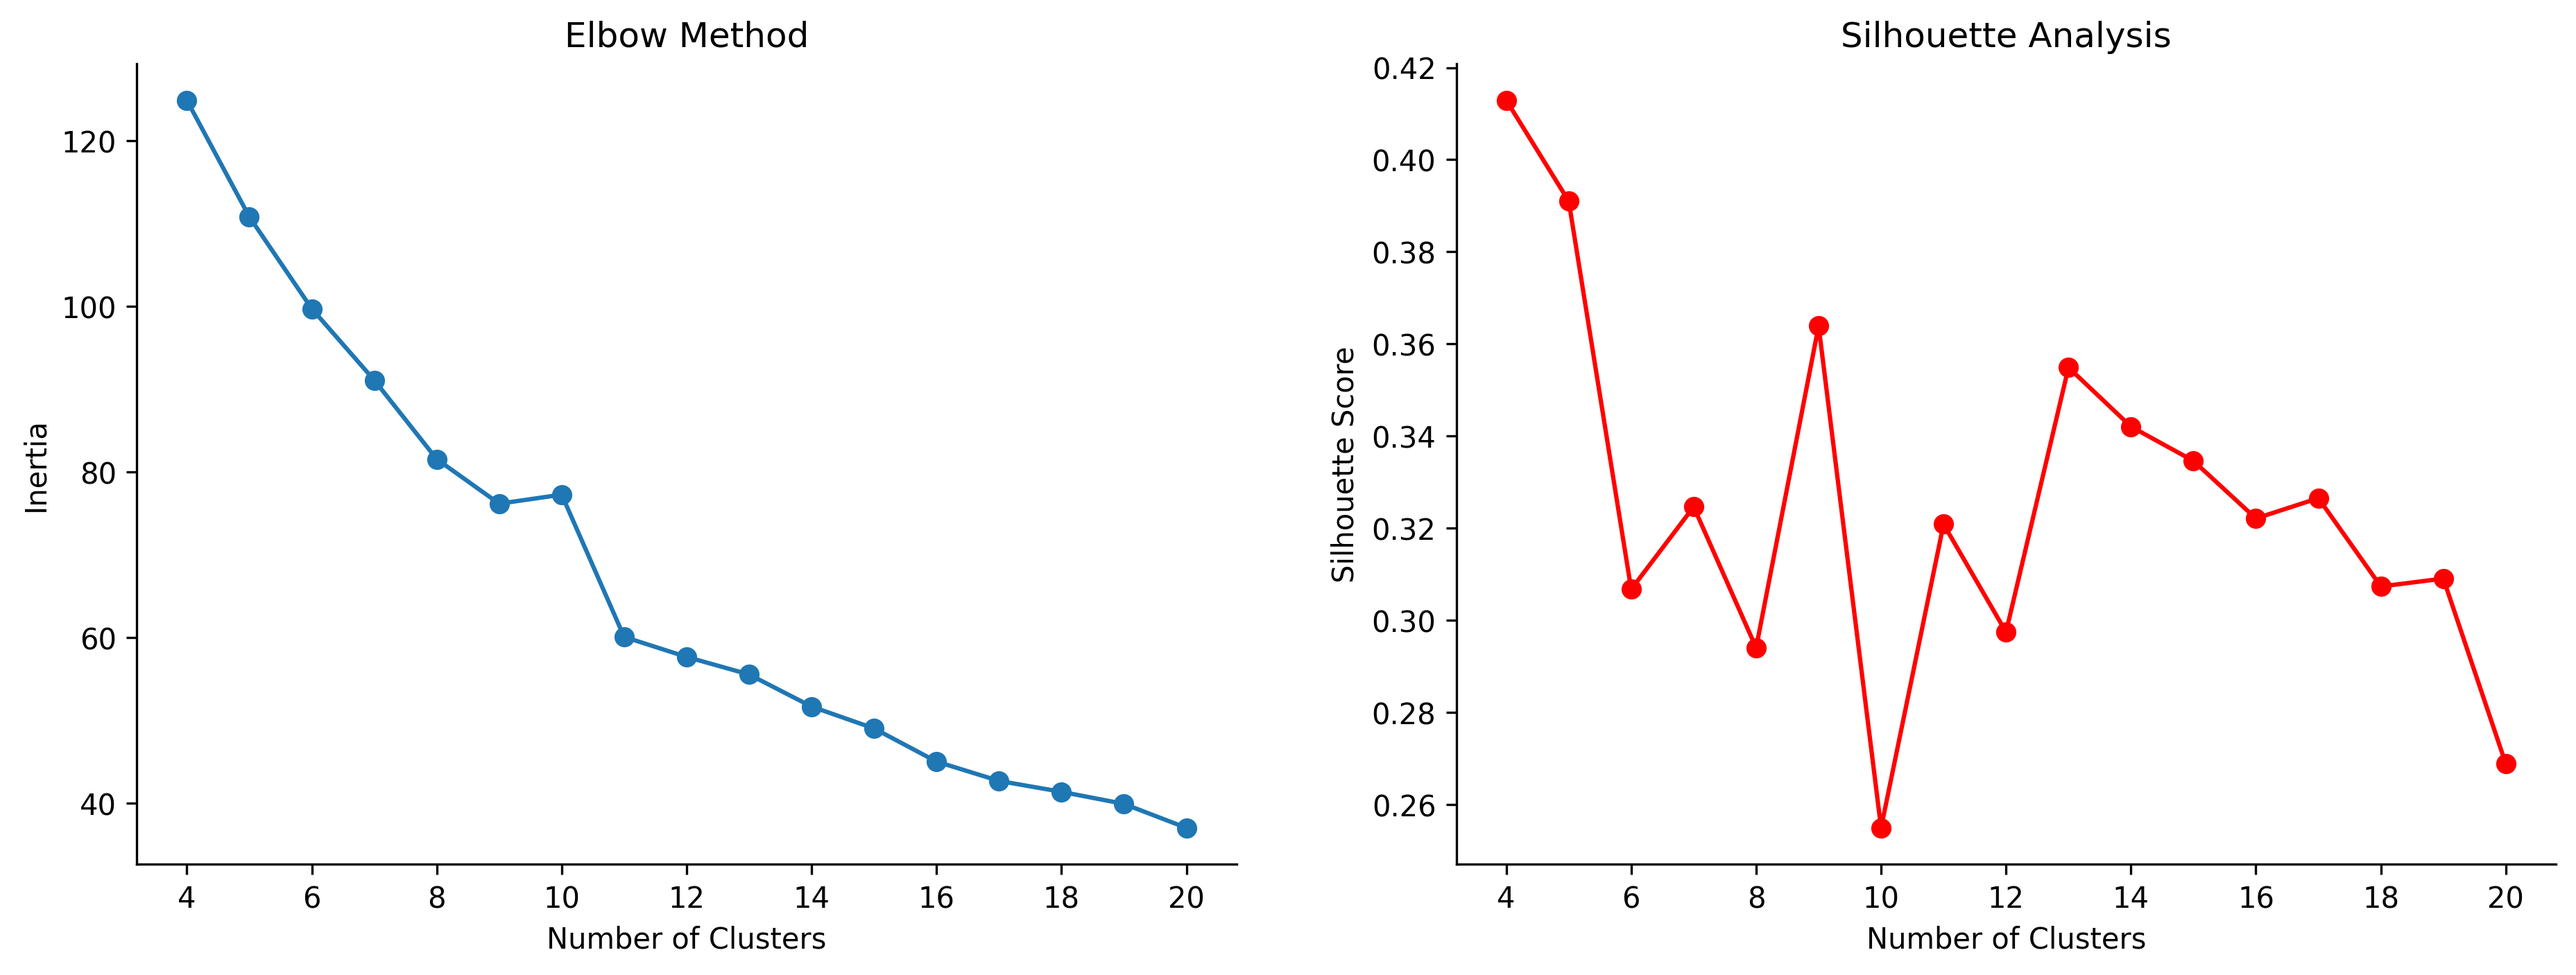
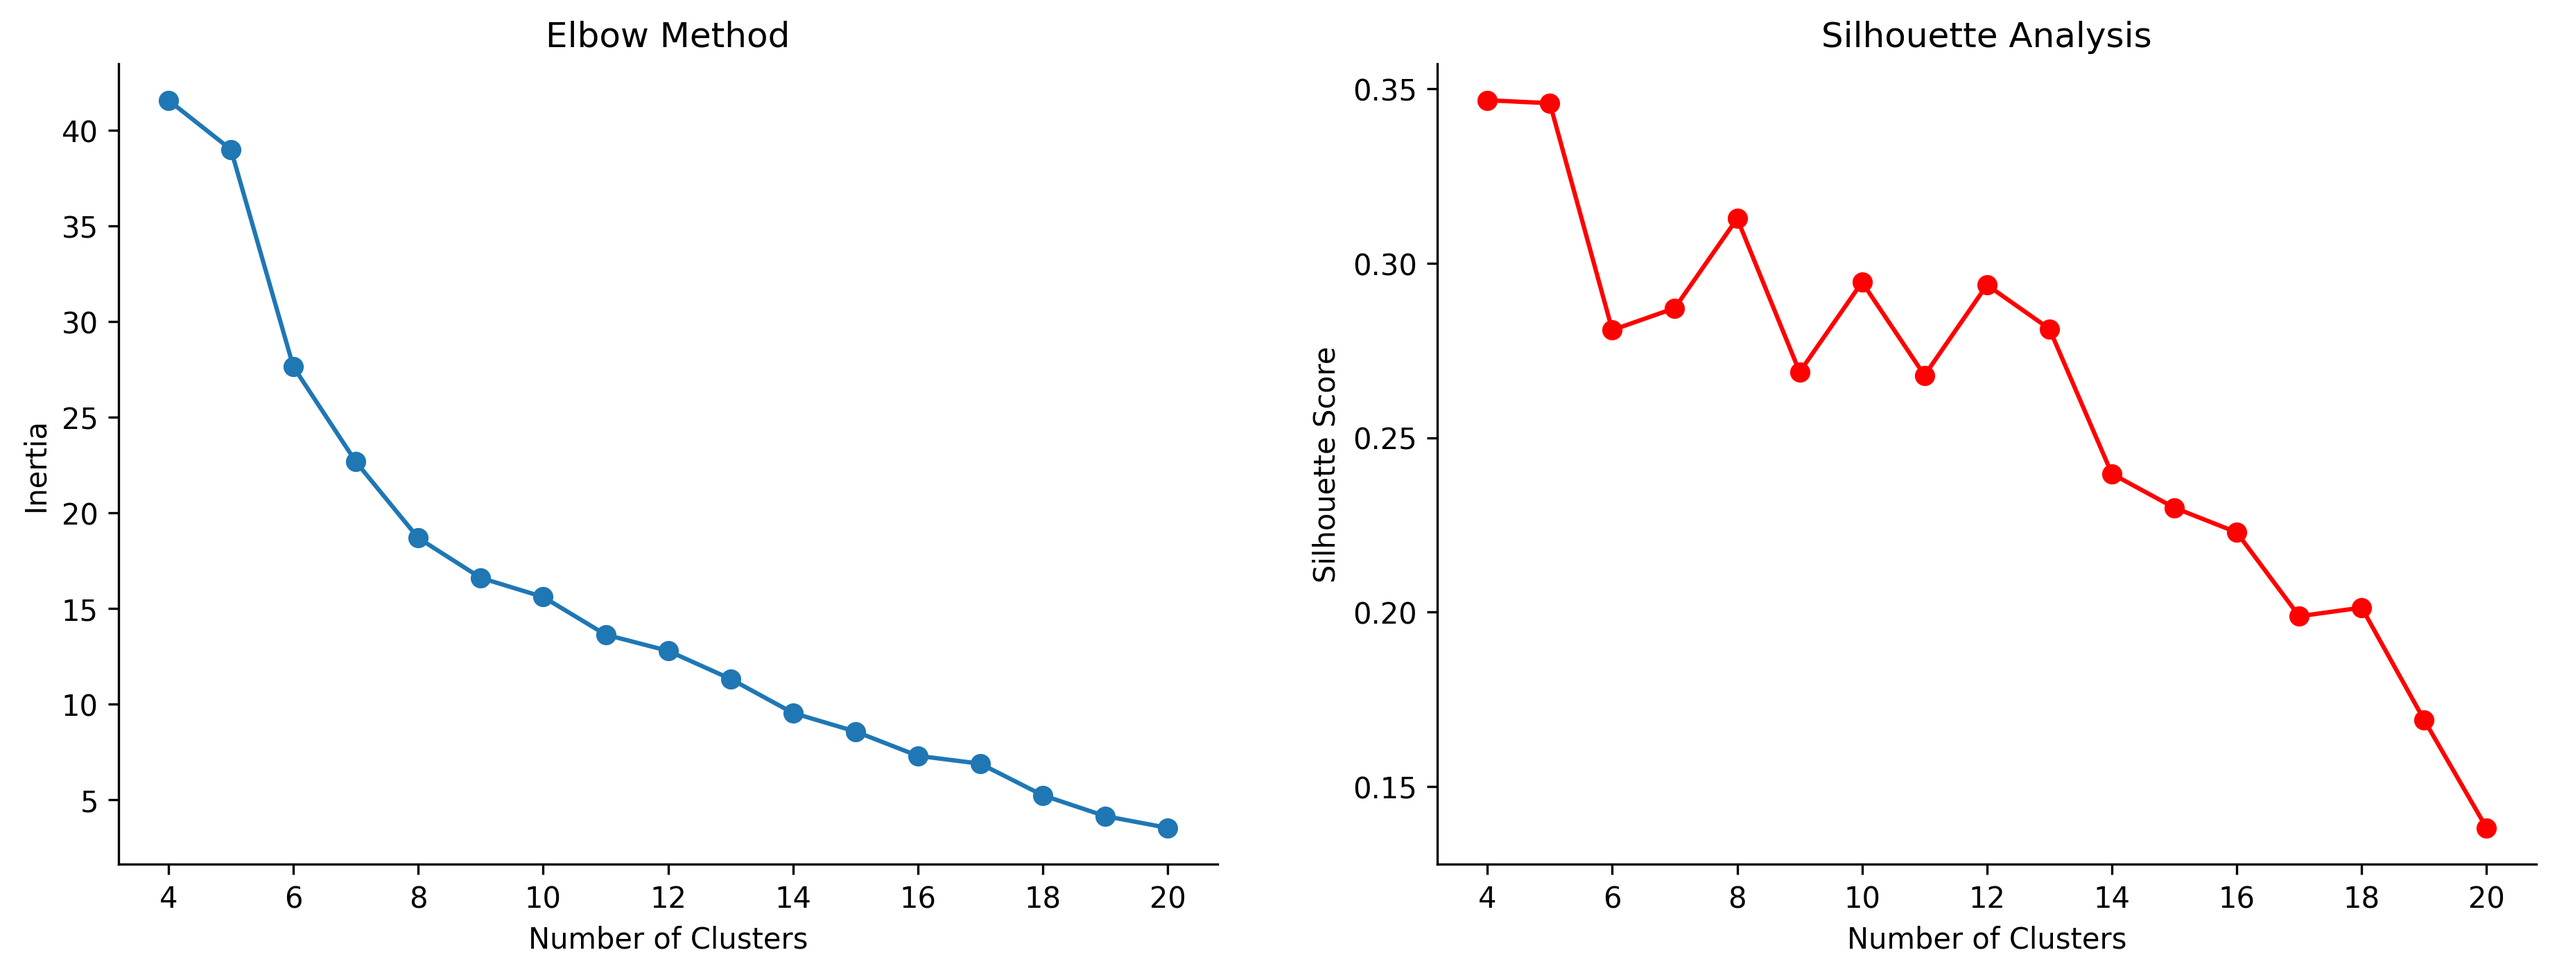
Refactor load_country_data to utilize HydroDataModule for data preprocessing and return cleaned daily time series DataFrame

diff --git a/clustering/cluster_all.py b/clustering/cluster_all.py
@@ -15,6 +15,8 @@ from clustering.preprocess_time_series import prepare_timeseries_data
 from clustering.time_series_clusterer import TimeSeriesClusterer
 from src.data_models.caravanify import Caravanify, CaravanifyConfig
 
+from src.data_models.datamodule import HydroDataModule
+
 
 @dataclass
 class ClusteringConfig:
@@ -42,19 +44,14 @@ class ClusteringConfig:
     optimization_method: str = "elbow"  # 'elbow' or 'silhouette'
 
 
-def load_country_data(country: str, config: ClusteringConfig) -> tuple:
+def load_country_data(country: str, config: ClusteringConfig) -> pd.DataFrame:
     """
-    Load time series and static data for a specific country.
-
-    Args:
-        country: Country code (e.g., 'CH', 'CL', 'USA')
-        config: Clustering configuration
-
-    Returns:
-        Tuple of (time_series_df, static_attributes_df)
+    Load and preprocess data for a country using HydroDataModule.
+    Returns cleaned daily time series DataFrame.
     """
     print(f"Loading data for {country}...")
 
+    # Configure Caravanify
     caravan_config = CaravanifyConfig(
         attributes_dir=f"{config.attributes_base_dir}/{country}/post_processed/attributes",
         timeseries_dir=f"{config.timeseries_base_dir}/{country}/post_processed/timeseries/csv",
@@ -69,7 +66,35 @@ def load_country_data(country: str, config: ClusteringConfig) -> tuple:
     print(f"  Found {len(ids)} stations for {country}")
 
     caravan.load_stations(ids)
-    return caravan.get_time_series(), caravan.get_static_attributes()
+    ts_data = caravan.get_time_series()
+    ts_colunms = ["streamflow", "date", "gauge_id"]
+    ts_data = ts_data[ts_colunms]
+
+    print(ts_data.head())
+
+    # Configure HydroDataModule for preprocessing
+    data_module = HydroDataModule(
+        time_series_df=ts_data,
+        group_identifier="gauge_id",
+        min_train_years=5,
+        val_years=0,
+        test_years=0,
+        max_missing_pct=10,
+        features=["streamflow"],
+        target="streamflow",
+        domain_id=country,
+    )
+
+    print(f"  Preprocessing data for {country}...")
+
+    # Process data
+    data_module.prepare_data()
+    data_module.setup("fit")
+
+    print(f"  Cleaned data for {country}")
+
+    # Return cleaned daily data
+    return data_module.train_dataset.df_sorted
 
 
 def main(config: ClusteringConfig):
@@ -89,35 +114,27 @@ def main(config: ClusteringConfig):
     results_csv_path = output_dir / config.results_csv_filename
 
     # Load data from all countries
-    all_ts_data = []
-    all_static_data = []
-
+    all_cleaned_daily = []
     for country in config.countries:
         try:
-            ts_data, static_data = load_country_data(country, config)
-            all_ts_data.append(ts_data)
-            all_static_data.append(static_data)
+            cleaned_daily = load_country_data(country, config)
+            all_cleaned_daily.append(cleaned_daily)
         except Exception as e:
-            print(f"Error loading data for {country}: {e}")
+            print(f"Error processing {country}: {e}")
 
-    # Combine all data
-    if not all_ts_data:
-        print("No data loaded. Exiting.")
-        return
+    # Combine cleaned daily data
+    combined_daily = pd.concat(all_cleaned_daily, ignore_index=True)
 
-    combined_ts_data = pd.concat(all_ts_data, ignore_index=True)
-    print(
-        f"Combined time series data: {len(combined_ts_data)} records from {len(set(combined_ts_data['gauge_id']))} stations"
-    )
-
-    # Prepare data for clustering
+    # Generate weekly mean annual cycles for clustering
     ts_data_standardized, basin_ids = prepare_timeseries_data(
-        df=combined_ts_data,
+        df=combined_daily,
         basin_id_col="gauge_id",
         date_col="date",
         flow_col="streamflow",
+        standardize=True,
     )
 
+    # Proceed with clustering
     print(f"Prepared standardized data with shape: {ts_data_standardized.shape}")
 
     # Initialize clusterer

diff --git a/src/data_models/datamodule.py b/src/data_models/datamodule.py
@@ -2,7 +2,6 @@ from typing import Optional, Dict, Union, List, Tuple
 from lightning.pytorch.utilities.combined_loader import CombinedLoader
 import pandas as pd
 import numpy as np
-import torch
 from torch.utils.data import DataLoader
 import pytorch_lightning as pl
 from sklearn.base import clone
@@ -78,7 +77,7 @@ class HydroDataModule(pl.LightningDataModule):
         self.fitted_pipelines = {}
 
         # Validate configuration
-        self._validate_preprocessing_config(preprocessing_config)
+        self._validate_preprocessing_config(self.preprocessing_config)
         self._validate_features()
 
     def _validate_preprocessing_config(self, config: Dict) -> None:
